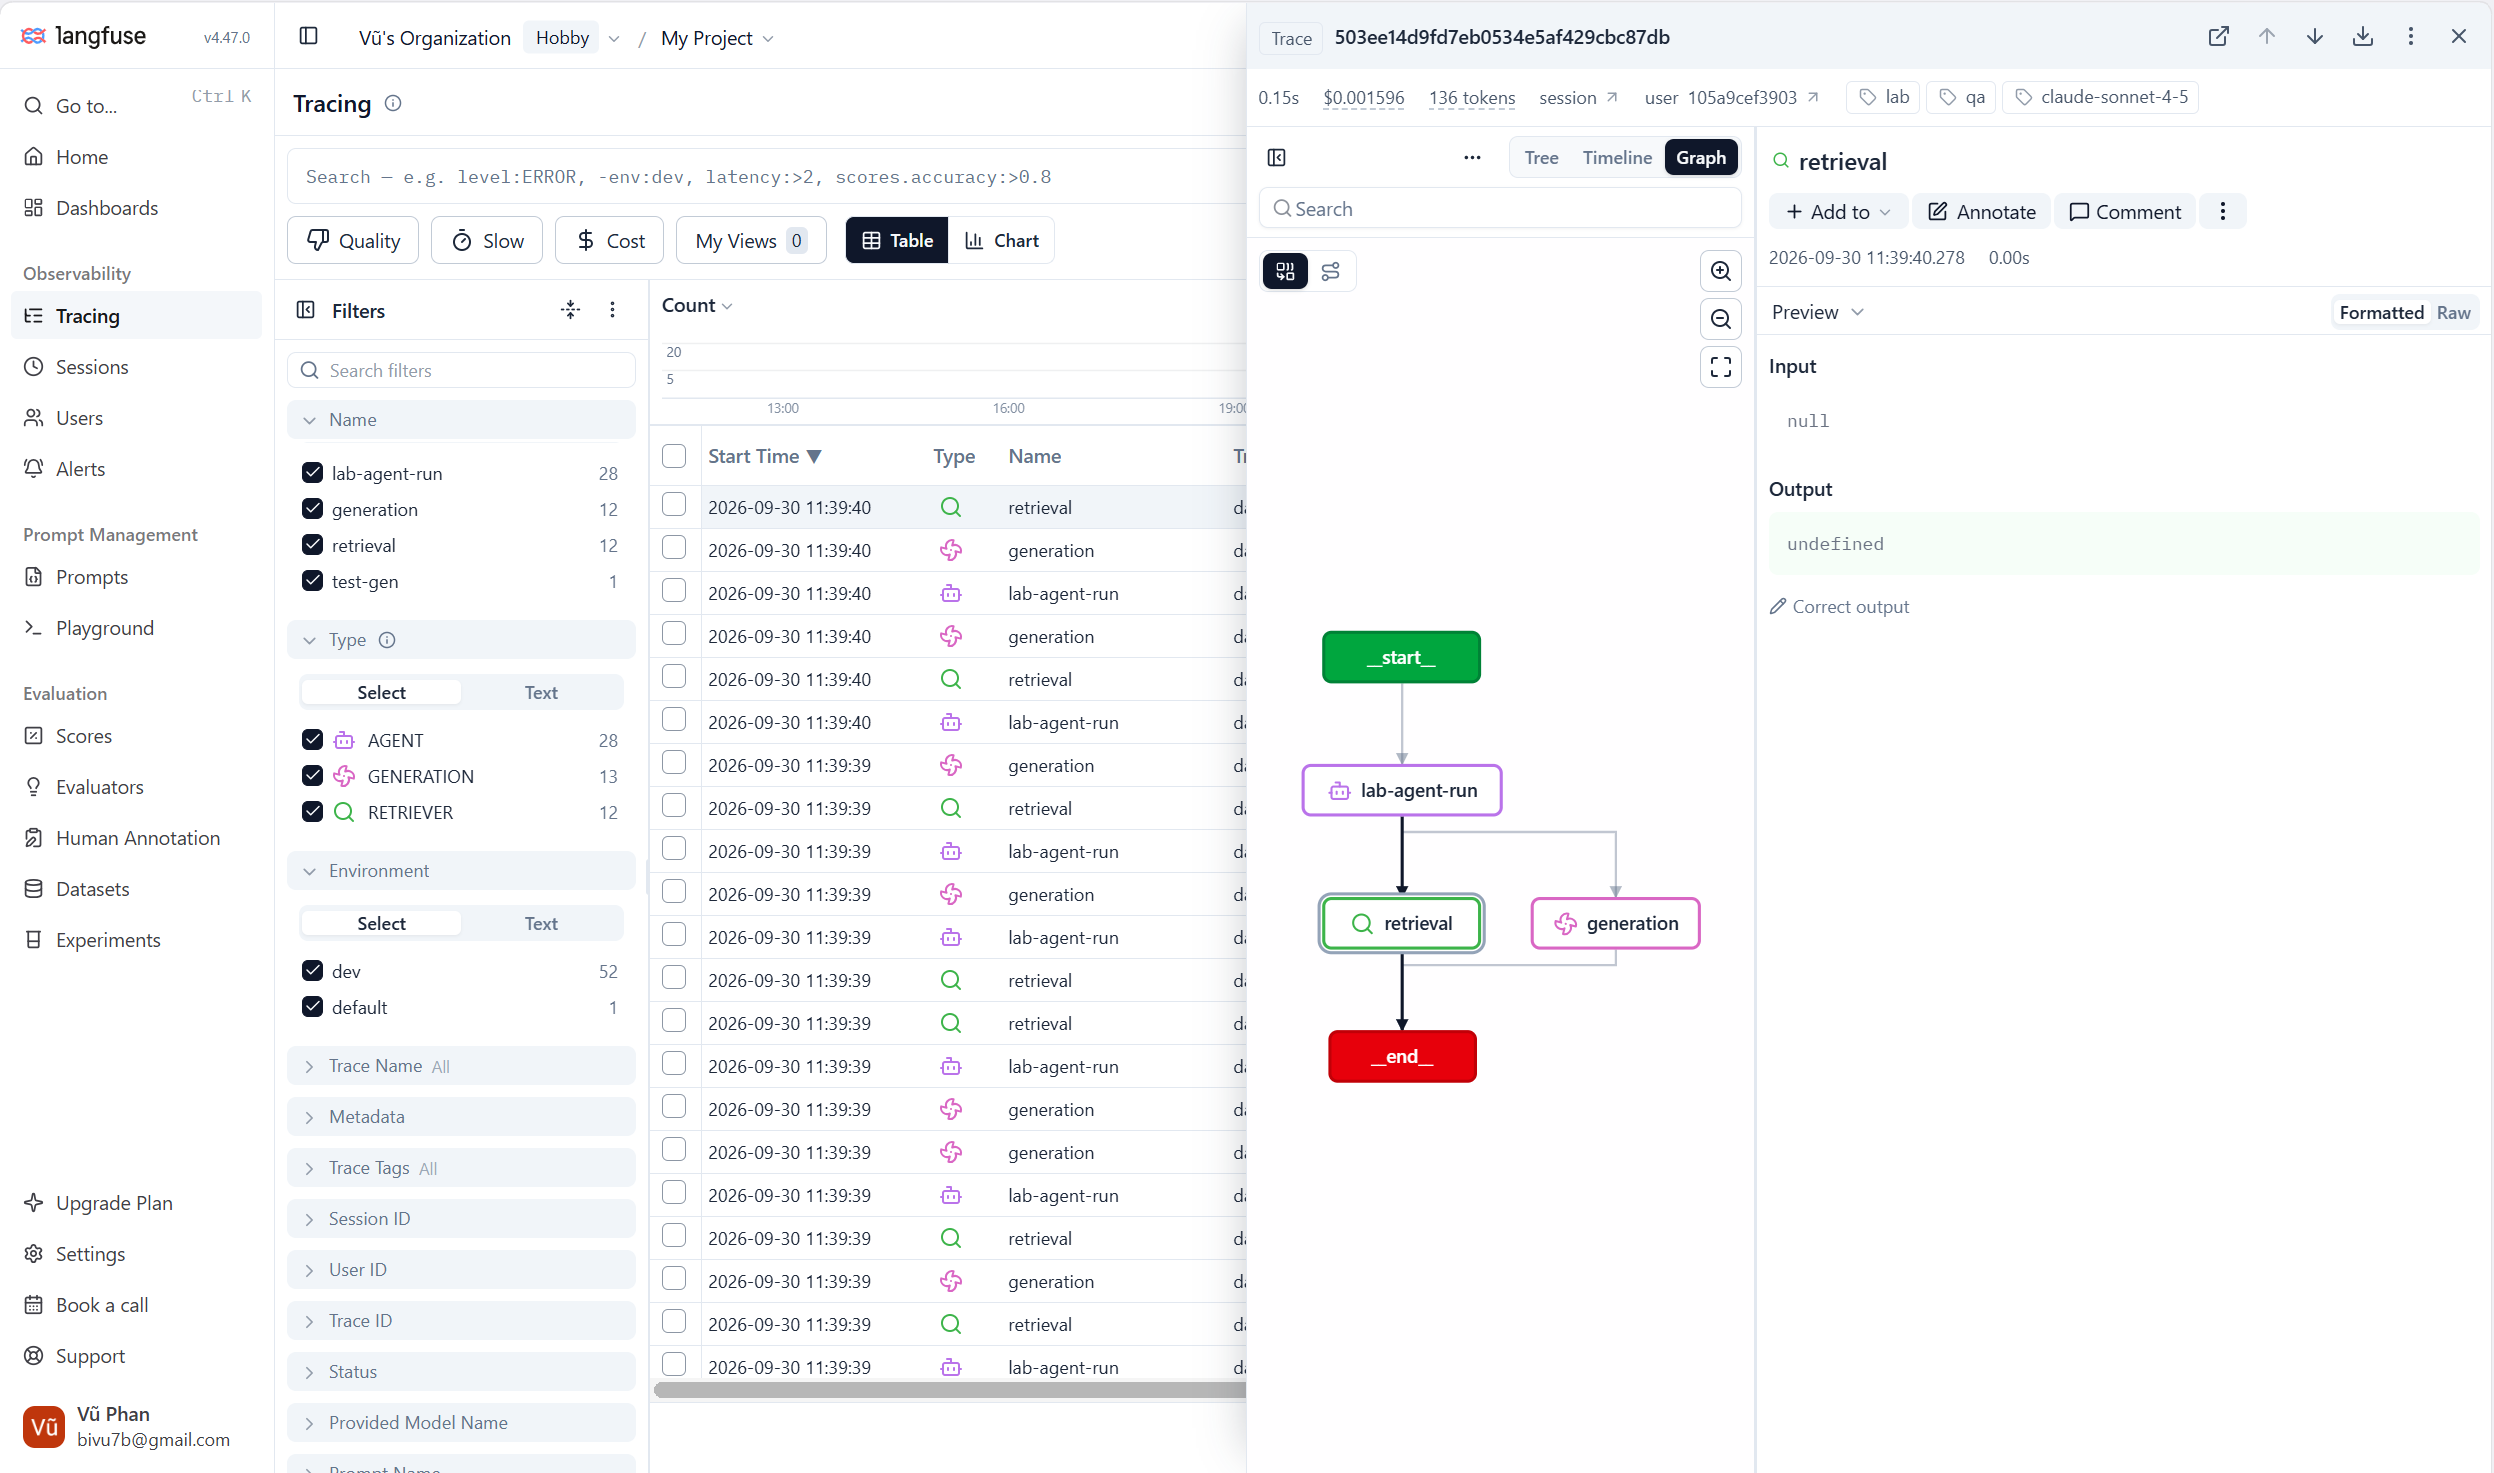
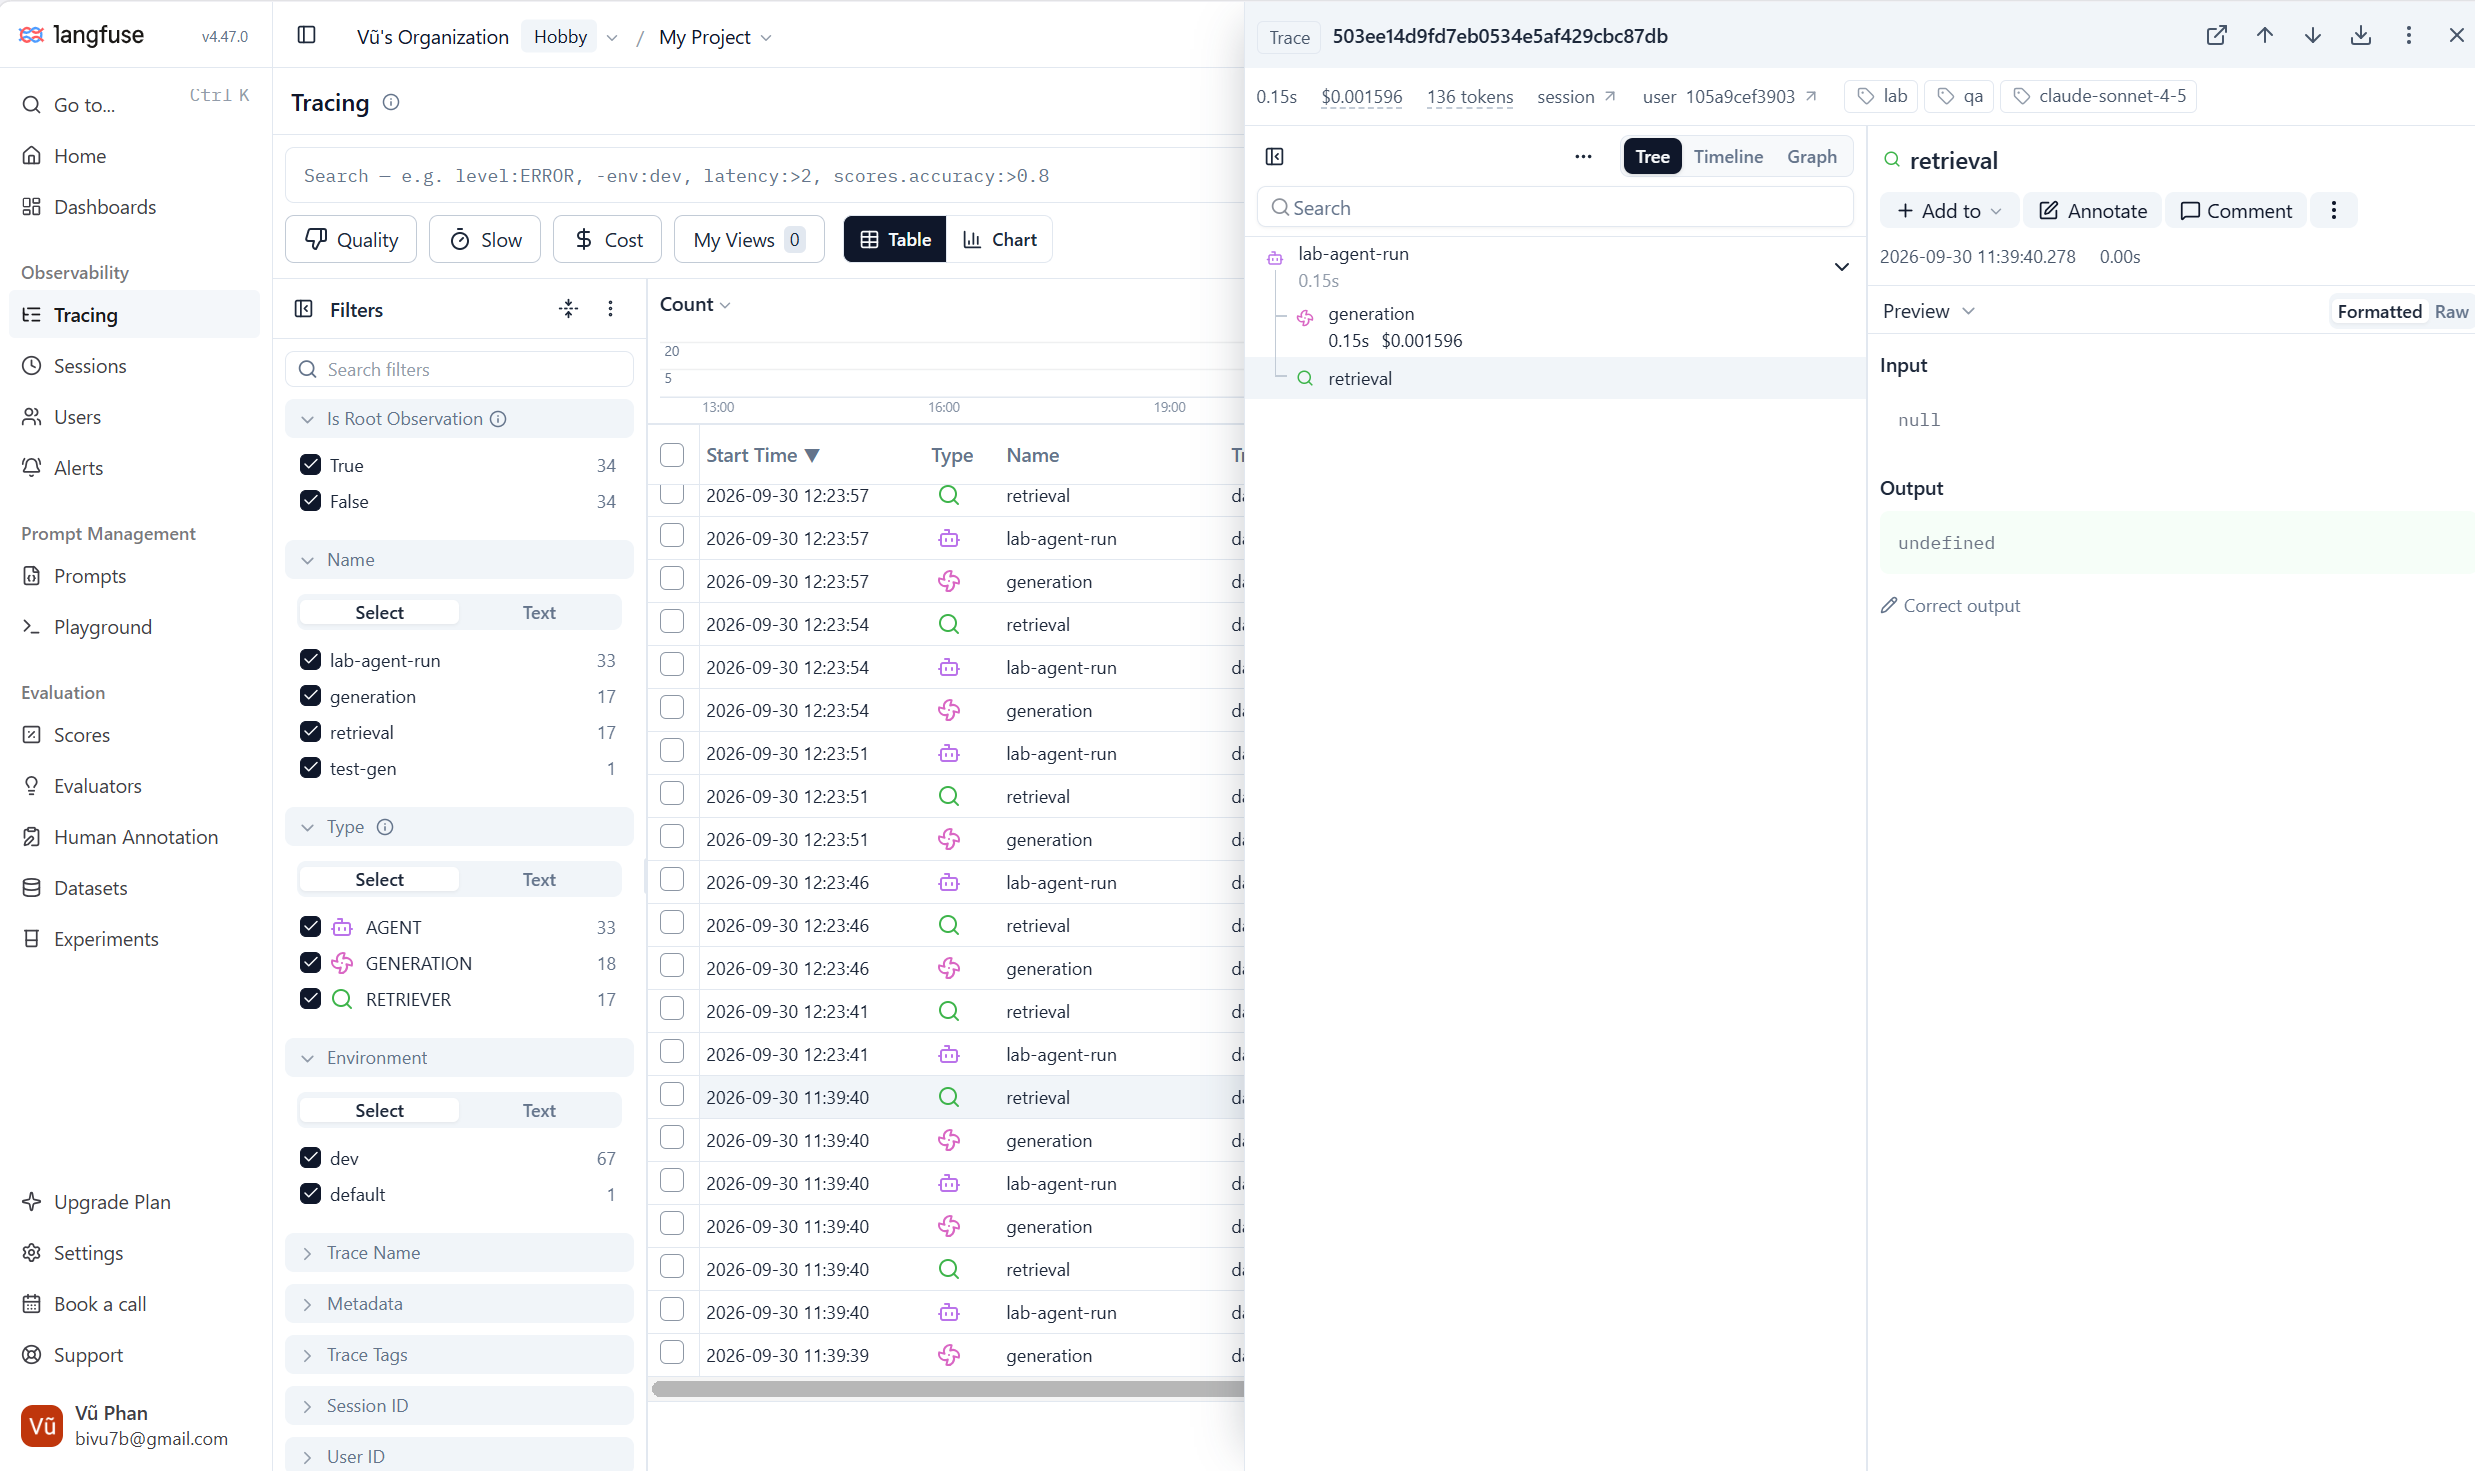
docs: finalize REPORT.md and update evidence 07

diff --git a/submission/REPORT.md b/submission/REPORT.md
@@ -8,7 +8,7 @@
 - **MSSV:** 2A202602450
 - **Lớp:** K4-L3B
 - **Repository URL:** https://github.com/hoangvu180225-cell/K4-L3-DAY13-PhanHoanVu-2A202602450-Monitoring-LLMOps
-- **Commit SHA cuối:** 800c406
+- **Commit SHA cuối:** 2c7b11d
 - **Challenge ID:** day13-k4-l3b-monitoring-llmops-v1
 - **Tên project Langfuse cá nhân:** `day13-k4-l3b-2A202602450`
 
